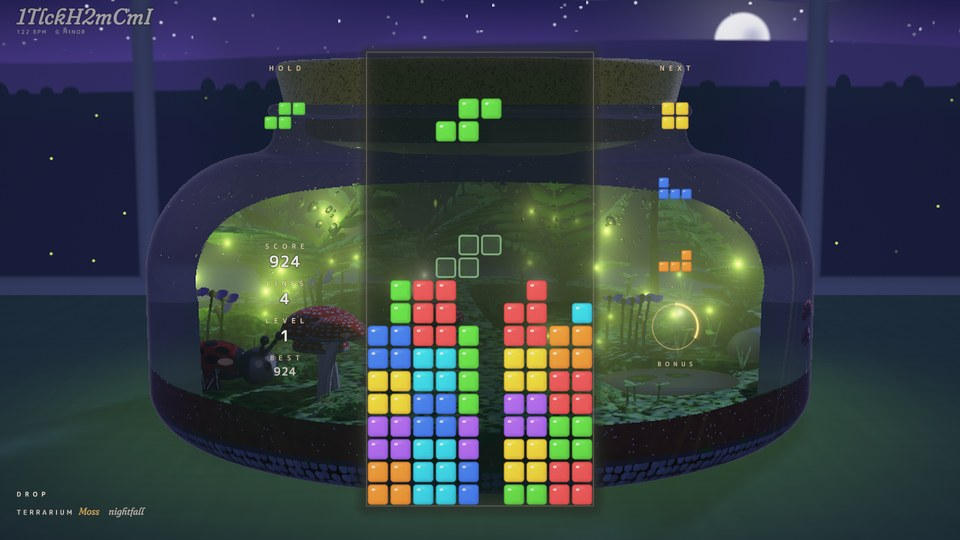
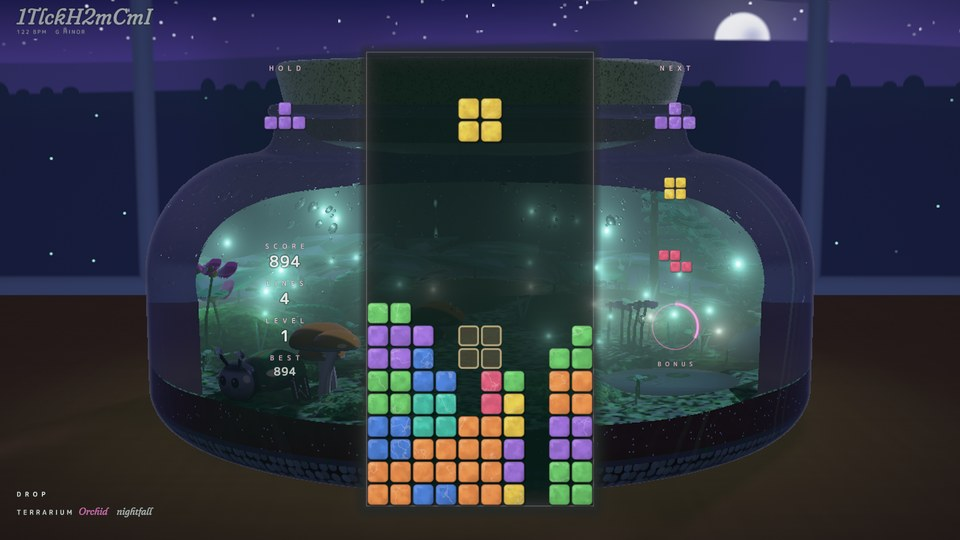
TERRARIUM v2: polished stone pieces, a deeper well, the sun clear of the title
The pieces are polished stones from the jar's gravel instead of glossy tiles:
one clean rounded cell each in natural, softer stone tones (jade, sand,
amethyst, moss green, terracotta, slate blue, rose quartz; each variant its own
seven), the surface in restrained relief (cloudy patches, faint strata, a rare
fine vein, speckles), a satin dome, a thin bevel, a crisp darker rim and a soft
contact shadow. The well's backing is deeper and even (no gradient), so the
stack stands out in every variant and at every time of day. The window light
now comes from the right: the golden-hour sun sets on the right of the window,
away from the song's title.

Claude-Session: https://claude.ai/code/session_01TRpCVe8qgHvBr5qwovmpX7

diff --git a/src/universes/terrarium/shaders.hpp b/src/universes/terrarium/shaders.hpp
@@ -1287,7 +1287,6 @@ void main() {
     vec2 w = uView.xy + (vUv * 2.0 - 1.0) * uView.zw;
     float dw = box(w, vec2(0.0), vec2(5.0, 10.0));
     float a = uWellA * (1.0 - smoothstep(-0.1, 0.7, dw));
-    a *= 0.92 + 0.08 * smoothstep(-10.0, 10.0, w.y);
     for (int i = 0; i < 2; i++) {
         vec4 r = i == 0 ? uColL : uColR;
         float dc = box(w, (r.xy + r.zw) * 0.5, (r.zw - r.xy) * 0.5);
@@ -1299,9 +1298,10 @@ void main() {
 }
 )";
 
-// ------------------------------------------------------------------------------------------------ pieces: pebbles
-// Each cell one polished pebble from the jar's gravel: a clean rounded square of its piece's color, domed (lit from
-// the window, top left), a crisp glint, a faint speckle in the stone, a thin darker edge of its own color.
+// ------------------------------------------------------------------------------------------------ pieces: stones
+// Each cell one polished stone from the jar's gravel: a clean rounded square of its piece's color, a natural stone
+// surface in restrained relief (soft mottling, a few fine pale veins, speckles), a satin dome lit from the window
+// (top left), a crisp darker rim of its own color with a thin light bevel, and a soft contact shadow under it.
 inline const char* CELL_VS = R"(#version 330 core
 layout(location = 0) in vec2 aPos;
 layout(location = 1) in vec4 aA; // x, y, half, seed
@@ -1312,9 +1312,10 @@ out vec2 vLocal;
 flat out vec4 vA;
 flat out vec4 vB;
 flat out vec4 vC;
+const float EXT = 1.2; // (room for the contact shadow)
 void main() {
-    vec2 wp = aA.xy + aPos * aA.z;
-    vLocal = aPos * 0.5;
+    vec2 wp = aA.xy + aPos * aA.z * EXT;
+    vLocal = aPos * 0.5 * EXT;
     vA = aA; vB = aB; vC = aC;
     gl_Position = uVP * vec4(wp, 0.0, 1.0);
 }
@@ -1328,43 +1329,64 @@ out vec4 frag;
 uniform float uBridge;
 uniform vec3 uBridgeInk, uLightC;
 float sdBoxR(vec2 p, vec2 b, float r) { vec2 q = abs(p) - b + r; return length(max(q, 0.0)) + min(max(q.x, q.y), 0.0) - r; }
+// the stone's own pattern, fixed to the stone (its seed from its place)
+float stoneH(vec2 q, vec2 sd) { return fbm(q * 3.2 + sd * 17.0); }
 void main() {
     int mode = int(vC.x + 0.5);
     float erase = vC.y;
     float aa = max(length(fwidth(vLocal)) * 0.7071, 1e-4);
     float shrink = 1.0 - 0.7 * smoothstep(0.0, 1.0, erase);
     vec2 q = vLocal / shrink;
-    float d = sdBoxR(q, vec2(0.445), 0.15);
+    float d = sdBoxR(q, vec2(0.45), 0.17);
     float inside = 1.0 - smoothstep(-aa, aa, d * shrink);
     vec3 t = vB.rgb;
     if (mode == 1) {
         float ring = 1.0 - smoothstep(0.022, 0.022 + aa * 1.5, abs(d + 0.035));
-        float a = (ring * 0.8 + inside * 0.08) * vB.a;
-        vec3 c = mix(mix(t, vec3(1.0), 0.35), uBridgeInk, uBridge);
+        float a = (ring * 0.85 + inside * 0.1) * vB.a;
+        vec3 c = mix(mix(t, vec3(1.0), 0.3), uBridgeInk, uBridge);
         frag = vec4(c * a, a);
         return;
     }
-    // a dome: lit from the top left, a little darker bottom right, a crisp glint
-    float e = sat(-d / 0.2);
-    vec2 g = normalize(q + 1e-5) * (1.0 - e);
-    float lit = dot(g, normalize(vec2(-0.6, 0.75)));
-    vec3 c = t * (1.0 + 0.14 * lit) * mix(0.9, 1.05, e);
-    c *= 0.96 + 0.08 * smoothstep(0.45, -0.45, q.x - q.y);
-    // the stone's faint speckle
-    vec2 sp = (q + vA.w * 3.7) * 22.0;
-    float sk = step(0.86, hash(floor(sp))) * smoothstep(0.35, 0.15, length(fract(sp) - 0.5));
-    c = mix(c, t * 0.78, sk * 0.35);
-    float gl = smoothstep(0.11, 0.05, length((q - vec2(-0.2, 0.22)) * vec2(1.0, 1.5)));
-    c = mix(c, mix(t, uLightC, 0.75) * 1.25, gl * 0.65);
-    c += mix(t, uLightC, 0.5) * 0.1 * exp(-sq((q.y - 0.3) / 0.06)) * smoothstep(0.3, 0.0, abs(q.x + 0.05));
-    // its own thin darker edge
-    c = mix(c, t * 0.55, 1.0 - smoothstep(0.0, 0.04 + aa, -d));
+    // the contact shadow, down and right, outside the stone only
+    float ds = sdBoxR(q - vec2(0.045, -0.06), vec2(0.45), 0.17);
+    float shadow = (1.0 - smoothstep(-0.02, 0.08, ds)) * (1.0 - inside) * 0.55 * (1.0 - smoothstep(0.0, 0.5, erase));
+    vec2 sd = vA.xy * vec2(0.173, 0.291) + vA.w;
+    // relief: the stone's mottling as a gentle height, lit like the dome
+    float h = stoneH(q, sd);
+    float hx = stoneH(q + vec2(0.02, 0.0), sd) - h, hy = stoneH(q + vec2(0.0, 0.02), sd) - h;
+    float e = sat(-d / 0.22);
+    vec2 dome = normalize(q + 1e-5) * (1.0 - e) * 0.9;
+    vec3 n = normalize(vec3(dome - vec2(hx, hy) * 1.4, 1.0));
+    vec3 L = normalize(vec3(-0.55, 0.65, 0.75));
+    float lit = dot(n, L);
+    // the stone's colors: its tint in soft cloudy patches, faint strata at its own angle, now and then one fine pale
+    // vein, a few speckles
+    vec3 c = t * mix(0.84, 1.08, smoothstep(0.32, 0.72, h));
+    float ang = fract(sd.x * 3.7) * 3.1416;
+    float band = sin(dot(q, vec2(cos(ang), sin(ang))) * 9.0 + h * 4.0 + sd.y * 6.0);
+    c *= 1.0 + 0.05 * band;
+    float vn = fbm(q * 1.6 + sd * 9.0 + 4.0);
+    float vein = (1.0 - smoothstep(0.0, 0.012 + aa, abs(vn - 0.5))) * step(0.55, fract(sd.x * 7.3 + sd.y * 3.1));
+    c = mix(c, mix(t, vec3(1.0), 0.5), vein * 0.3);
+    vec2 sp = (q + sd) * 26.0;
+    float sk = step(0.88, hash(floor(sp))) * smoothstep(0.38, 0.18, length(fract(sp) - 0.5));
+    c = mix(c, t * 0.62, sk * 0.35);
+    // satin light: a rounder dome (lit top left, its foot darker bottom right), a broad sheen, no glint
+    c *= 0.72 + 0.42 * sat(lit * 0.5 + 0.5);
+    c *= 1.0 - 0.14 * smoothstep(0.1, 0.5, dot(q, vec2(0.7, -0.7)));
+    float sheen = smoothstep(0.82, 0.98, dot(reflect(-L, n), vec3(0.0, 0.0, 1.0)));
+    c += mix(t, uLightC, 0.6) * sheen * 0.12;
+    // the bevel: a thin light edge top left, a crisp darker rim all round
+    float edgeIn = 1.0 - smoothstep(0.0, 0.06, -d);
+    c = mix(c, mix(t, vec3(1.0), 0.45), edgeIn * sat(dot(normalize(q + 1e-5), vec2(-0.6, 0.8))) * 0.35);
+    c = mix(c, t * 0.42, 1.0 - smoothstep(0.0, 0.03 + aa, -d));
     c = mix(c, mix(t, vec3(1.0), 0.5), smoothstep(0.0, 0.6, erase) * 0.4);
     float dull = vC.z;
     c = mix(c, vec3(dot(c, vec3(0.3, 0.5, 0.2))) * 0.55, dull);
     c = mix(c, uBridgeInk, uBridge);
     float a = inside * vB.a * (1.0 - smoothstep(0.55, 1.0, erase));
-    frag = vec4(c * a, a);
+    float sa = shadow * vB.a * (1.0 - uBridge);
+    frag = vec4(c * a, a + sa * (1.0 - a));
 }
 )";
 

diff --git a/src/universes/terrarium/terrarium.cpp b/src/universes/terrarium/terrarium.cpp
@@ -76,19 +76,19 @@ const VariantDef VARIANTS[] = {
      0xee2f2a, 0xfff2dc, 0x9a62ff, 0xf6eaff, 0x6e4a2e, 0x2a8ab0, 0x9aa8bc, 0xec2a2e, 0x15111a, 0xd8ff6e, 0x6f957e,
      0xf6f1e6, 0xeadcc4, 0x48b03a, 0x84c8a6,
      0xfffaf0, 0xffd27a, 0x0b1c17,
-     {0x3fd6ec, 0xffd43f, 0xb06bff, 0x6ade4a, 0xff5a5a, 0x4a80ff, 0xff9a3a}, 0.07f, 1.f},
+     {0x62c4b0, 0xe8bf5c, 0xa585d6, 0x8cc65e, 0xdc6e58, 0x6a92d0, 0xeda0a8}, 0.07f, 1.f},
     // A desert jar: layered sand in coral and cream, succulent rosettes, aloes, cacti in flower, a turquoise scarab.
     {"DESERT", 1, 0xe2ae74, 0xc48c56, 0xd8c8b4, 0xf47a66, 0xfff0d6, 0xa8c870, 0x6b8a4a, 0x8ad6b4, 0x2f8a7c, 0x8a9a5a,
      0xff7ab0, 0xffe8c0, 0xff5aa0, 0xffd27a, 0xcbb698, 0x4ab0c8, 0xe6d6c4, 0x22c4cc, 0x0d3a5c, 0xffe48a, 0xb8603c,
      0xfff6ea, 0xf2dabb, 0xdc9a4e, 0xeebc84,
      0xfffaf2, 0xffb27a, 0x22130c,
-     {0x2ad4c4, 0xffd23a, 0xff6a9e, 0x8ad84a, 0xff6a3a, 0x5a8cff, 0xc47aff}, 0.0f, 0.f},
+     {0x5cc8bc, 0xf2d282, 0xb48ad8, 0xaac86a, 0xe27a4c, 0x6688c0, 0xec9cba}, 0.0f, 0.f},
     // A tropical jar: rich dark earth, broad striped leaves, magenta orchids, orange caps, a jewel beetle.
     {"ORCHID", 2, 0x4e2c1a, 0x22130a, 0x7a8a72, 0x2a2a2e, 0x46464c, 0x5ad85a, 0x1d6a3a, 0x48d68c, 0x0e5a3a, 0x4a9a4a,
      0xffa83a, 0xfff0d0, 0xff48bc, 0xfff0fa, 0x5a3a28, 0x14a4a4, 0x66788a, 0x3ad46a, 0xe8c440, 0xa8fff0, 0x8a5636,
      0xeaf2ea, 0xdae2ca, 0x26a45a, 0x5ac4a2,
      0xf6fff8, 0xff8ad4, 0x061d18,
-     {0x2ae2d2, 0xffe23a, 0xe45aff, 0x5ae25a, 0xff4a6a, 0x3a8cff, 0xff8c2a}, 0.07f, 0.f},
+     {0x48bfa8, 0xe8c650, 0x9c70d6, 0x6cc46a, 0xe0607e, 0x4e80d6, 0xf09250}, 0.07f, 0.f},
 };
 constexpr int VARIANT_COUNT = (int)(sizeof(VARIANTS) / sizeof(VARIANTS[0]));
 
@@ -1130,10 +1130,10 @@ void TerrariumUniverse::render(const Frame& f, GLuint fbo) {
     }
     vec3 sunDir;
     {
-        const float az = 0.33f;
+        const float az = -0.33f;
         const float el = std::max(elev, -0.06f);
         const vec3 sd(-std::sin(az) * std::cos(el), std::sin(el), -std::cos(az) * std::cos(el));
-        const vec3 md = normalize(vec3(0.48f, 0.42f, -0.77f));
+        const vec3 md = normalize(vec3(0.48f, 0.42f, -0.77f)); // (the moon, right)
         const float toMoon = smoothstepf(4.f, 4.9f, tod_);
         sunDir = normalize(lerp(sd, md, toMoon));
         if (sunDir.y < 0.08f) sunDir = normalize(vec3(sunDir.x, 0.08f, sunDir.z));
@@ -1313,7 +1313,7 @@ void TerrariumUniverse::render(const Frame& f, GLuint fbo) {
         set3f(P, "uGlowSun", glowC);
         set1f(P, "uSunDisc", disc);
         // the sun as the window shows it (stretched elevations): low over the hills on the left
-        set2f(P, "uSunSky", -0.2f, std::clamp(elev, -0.1f, 0.9f) * 2.0f);
+        set2f(P, "uSunSky", 0.3f, std::clamp(elev, -0.1f, 0.9f) * 2.0f);
         set1f(P, "uMoon", moon);
         set1f(P, "uStars", stars * (1.f - rain_));
         set1f(P, "uRain", rain_);
@@ -1352,7 +1352,7 @@ void TerrariumUniverse::render(const Frame& f, GLuint fbo) {
         set4f(progVeil_, "uView", viewC_.x, viewC_.y, viewH_.x, viewH_.y);
         set3f(progVeil_, "uVeil", lerp(pal_.veil, bridge_.color, bridge));
         set3f(progVeil_, "uRail", lerp(lerp(pal_.ink, pal_.accent, 0.3f) * 0.5f, bridge_.ink * 0.4f, bridge));
-        set1f(progVeil_, "uWellA", 0.84f);
+        set1f(progVeil_, "uWellA", 0.93f);
         set1f(progVeil_, "uColA", 0.4f * world);
         set1f(progVeil_, "uRailA", 0.55f);
         set1f(progVeil_, "uPx", pxPerUnit_);

diff --git a/docs/universes.md b/docs/universes.md
@@ -387,13 +387,13 @@ The song: calm is a still network breathing; mid sends pulses of light out along
 
 ![TERRARIUM](universes/terrarium.jpg)
 
-A sealed glass jar on a windowsill, a tiny ecosystem growing in it over the song, seen in 3D behind the well (code in `src/universes/terrarium/`, `--universe terrarium`). Human-scale and calm: the jar stays a jar. It starts with soil, a pebble and a tuft of moss; every few cleared lines something new grows in it and stays for the rest of the song: moss cushions, ferns whose fiddleheads uncurl into arching fronds, a cluster of red toadstools, a little sapling, a pond filling a hollow of the soil, lily pads on it, violets, more ferns and mushrooms, a moss carpet slowly spreading over the bare soil, until at scene completion the jar is a lush miniature forest. The things grow at fixed places, one every ~3 lines from 1 to 45 (each over 4 lines, eased; the pond at 15-19), so the jar is full at 50 lines; these are lines at the reference pace (`paceLines()`: the scene completes at `sceneLines()`, 15 lines a minute of song, 50 for a 3:20 song, and every count here scales with it), and after 50 the plants keep growing a little (+12 % by 100). **The light outside the window follows the same arc**: a blue morning sky, a warm afternoon, the golden hour (the sun low over the hills on the left, glowing through the window), the sunset, dusk and nightfall (a violet band low over the dark hills, the moon, stars, far fireflies in the garden); the time of day closes the HUD's corner line. **At dusk the fireflies come out** (from ~33 lines, one by one, 32 of them by nightfall): soft points of light wandering inside the jar, each pulsing slowly on its own (eased, never flashing), lighting the leaves and the moss around it, their glow seen through the glass and the mist. A little kawaii beetle lives in the jar and wanders the soil all the time (a ladybird in the forest): it walks to a spot beside the well, steering around what grows, stops, turns round to face us, looks at us and around, blinks, walks on; its legs keep a tripod gait, its antennae wiggle, its pale face has two big glossy black eyes, a blush and a tiny smile.
+A sealed glass jar on a windowsill, a tiny ecosystem growing in it over the song, seen in 3D behind the well (code in `src/universes/terrarium/`, `--universe terrarium`). Human-scale and calm: the jar stays a jar. It starts with soil, a pebble and a tuft of moss; every few cleared lines something new grows in it and stays for the rest of the song: moss cushions, ferns whose fiddleheads uncurl into arching fronds, a cluster of red toadstools, a little sapling, a pond filling a hollow of the soil, lily pads on it, violets, more ferns and mushrooms, a moss carpet slowly spreading over the bare soil, until at scene completion the jar is a lush miniature forest. The things grow at fixed places, one every ~3 lines from 1 to 45 (each over 4 lines, eased; the pond at 15-19), so the jar is full at 50 lines; these are lines at the reference pace (`paceLines()`: the scene completes at `sceneLines()`, 15 lines a minute of song, 50 for a 3:20 song, and every count here scales with it), and after 50 the plants keep growing a little (+12 % by 100). **The light outside the window follows the same arc**: a blue morning sky, a warm afternoon, the golden hour (the sun low over the hills on the right, glowing through the window, clear of the song's title), the sunset, dusk and nightfall (a violet band low over the dark hills, the moon, stars, far fireflies in the garden); the time of day closes the HUD's corner line. **At dusk the fireflies come out** (from ~33 lines, one by one, 32 of them by nightfall): soft points of light wandering inside the jar, each pulsing slowly on its own (eased, never flashing), lighting the leaves and the moss around it, their glow seen through the glass and the mist. A little kawaii beetle lives in the jar and wanders the soil all the time (a ladybird in the forest): it walks to a spot beside the well, steering around what grows, stops, turns round to face us, looks at us and around, blinks, walks on; its legs keep a tripod gait, its antennae wiggle, its pale face has two big glossy black eyes, a blush and a tiny smile.
 
 The jar is ray marched in one pass at a reduced resolution: a revolved profile (a wide body with round shoulders, a neck, a lip, a cork), its glass refracting a little, tinted and thicker toward its edges, a fresnel reflection of the room (a soft bright window strip runs down its curve), a bright rim along its silhouette; through it the soil is seen in section against the glass (a layer of grey pebbles, a dark charcoal line, the earth with perlite and roots; layers of coral and cream sand in the desert). Inside, every plant is a signed distance field (the fern's fronds are arcs with their pinnae and a curled fiddlehead at the tip, the toadstools have warts and gills, the moss is lumpy and fuzzy), lit in a toon way: two bands of light from the window, a cool sky ambient, a warm fill from the room, translucent leaves glowing when backlit, soft shadows, a rim of light. Each ray only evaluates the things whose bounds it comes near, and skips any whose bound is farther than the nearest surface found. **The calm parts bring mist and condensation**: a low mist over the soil, drifting, thicker in a calm section, and condensation on the upper glass, fine droplets that whiten it and larger drops that act as small lenses (a glint, a dark edge), with a few drops trickling down and leaving clear trails; a mid section clears the glass, a peak clears it most. The ferns sway a little, more as the song rises.
 
 **The drop is a summer shower**: the sky turns slate, rain streaks fall past the window and drops slide down its panes, the room dims, and every firefly in the jar lights at once, glowing through the rain-dimmed light; the shower and the fireflies settle over several seconds after the drop. In a peak the fireflies swell together every two beats and with the kicks (small, local lights only). **Clears release seeds**: two glowing seeds from inside the jar behind each cleared row, drifting out from behind the well and floating down to a free spot of soil beside it over five seconds or so; one in two takes root there and sprouts (a seedling with two seed leaves, a tuft of grass or a clover in the forest and the tropics, a round succulent pup in the desert), growing over a few seconds and staying. The cleared cells shrink softly away; a hard drop pushes a little puff of soil from under the piece. Slow motion is a cool hush. Game over: the pieces dull from the top down and the fireflies go out; a new game starts again from bare soil (the plants sink back, the seedlings fade). It leaves and enters through the bridge.
 
-**The pieces are pebbles from the jar's gravel**: one clean rounded cell each in its piece's color, domed (lit from the top left), a crisp glint, a faint speckle in the stone, a thin darker edge of its own color; the ghost is the outline. Three variants, each with its own world, colors and seven pieces: MOSS (a mossy forest jar: deep earth, emerald moss and ferns, red toadstools, violets, a pond, a red ladybird with black spots; a sage sill; quiet minor songs), DESERT (a desert jar: layered sand art, echeverias, aloes with white dots, ball cacti in pink flower, driftwood, a turquoise scarab; a terracotta sill; bright, airy songs) and ORCHID (a tropical jar: rich dark earth, broad striped leaves, magenta orchids, orange caps, a pond, a jewel beetle; a dark teak sill; warm, heavy songs) (`--universe "terrarium:desert"`). Cost: the world at a reduced resolution (at most 720 lines), the veil, the pieces and the lettering at full resolution; at 1080p on an RTX 4090, about 0.3 ms a frame for the bare jar and 2.8 ms for the full one (measured while the GPU was busy with other work; the ferns are the dearest part). Test hooks: `ZEN_TERRARIUM_LINES=N` adds N lines, `ZEN_GROW_RATE=R` adds R lines a second (a still starting at a stage also gets the seedlings its clears would have left). Its fonts are Fraunces Soft Italic (the song, the variant, the time of day, the notices) and M PLUS Rounded 1c Medium (labels, numbers) (SIL Open Font License, `src/universes/terrarium/OFL-Fraunces.txt`, `src/universes/terrarium/OFL-MPLUSRounded1c.txt`).
+**The pieces are polished stones from the jar's gravel**: one clean rounded cell each, in natural, slightly soft stone tones (jade, sand, amethyst, moss green, terracotta, slate blue, rose quartz; each variant its own seven), the stone's surface in restrained relief (soft cloudy patches, faint strata at its own angle, now and then one fine pale vein, a few speckles), a satin dome lit from the window with no glint, a thin light bevel, a crisp darker rim of its own color and a soft contact shadow under it; the well's backing is deep and even, so the stack stands out at every time of day. The ghost is the outline. Three variants, each with its own world, colors and seven pieces: MOSS (a mossy forest jar: deep earth, emerald moss and ferns, red toadstools, violets, a pond, a red ladybird with black spots; a sage sill; quiet minor songs), DESERT (a desert jar: layered sand art, echeverias, aloes with white dots, ball cacti in pink flower, driftwood, a turquoise scarab; a terracotta sill; bright, airy songs) and ORCHID (a tropical jar: rich dark earth, broad striped leaves, magenta orchids, orange caps, a pond, a jewel beetle; a dark teak sill; warm, heavy songs) (`--universe "terrarium:desert"`). Cost: the world at a reduced resolution (at most 720 lines), the veil, the pieces and the lettering at full resolution; at 1080p on an RTX 4090, about 0.3 ms a frame for the bare jar and 2.8 ms for the full one (measured while the GPU was busy with other work; the ferns are the dearest part). Test hooks: `ZEN_TERRARIUM_LINES=N` adds N lines, `ZEN_GROW_RATE=R` adds R lines a second (a still starting at a stage also gets the seedlings its clears would have left). Its fonts are Fraunces Soft Italic (the song, the variant, the time of day, the notices) and M PLUS Rounded 1c Medium (labels, numbers) (SIL Open Font License, `src/universes/terrarium/OFL-Fraunces.txt`, `src/universes/terrarium/OFL-MPLUSRounded1c.txt`).
 
 ## MEGACITY
 
